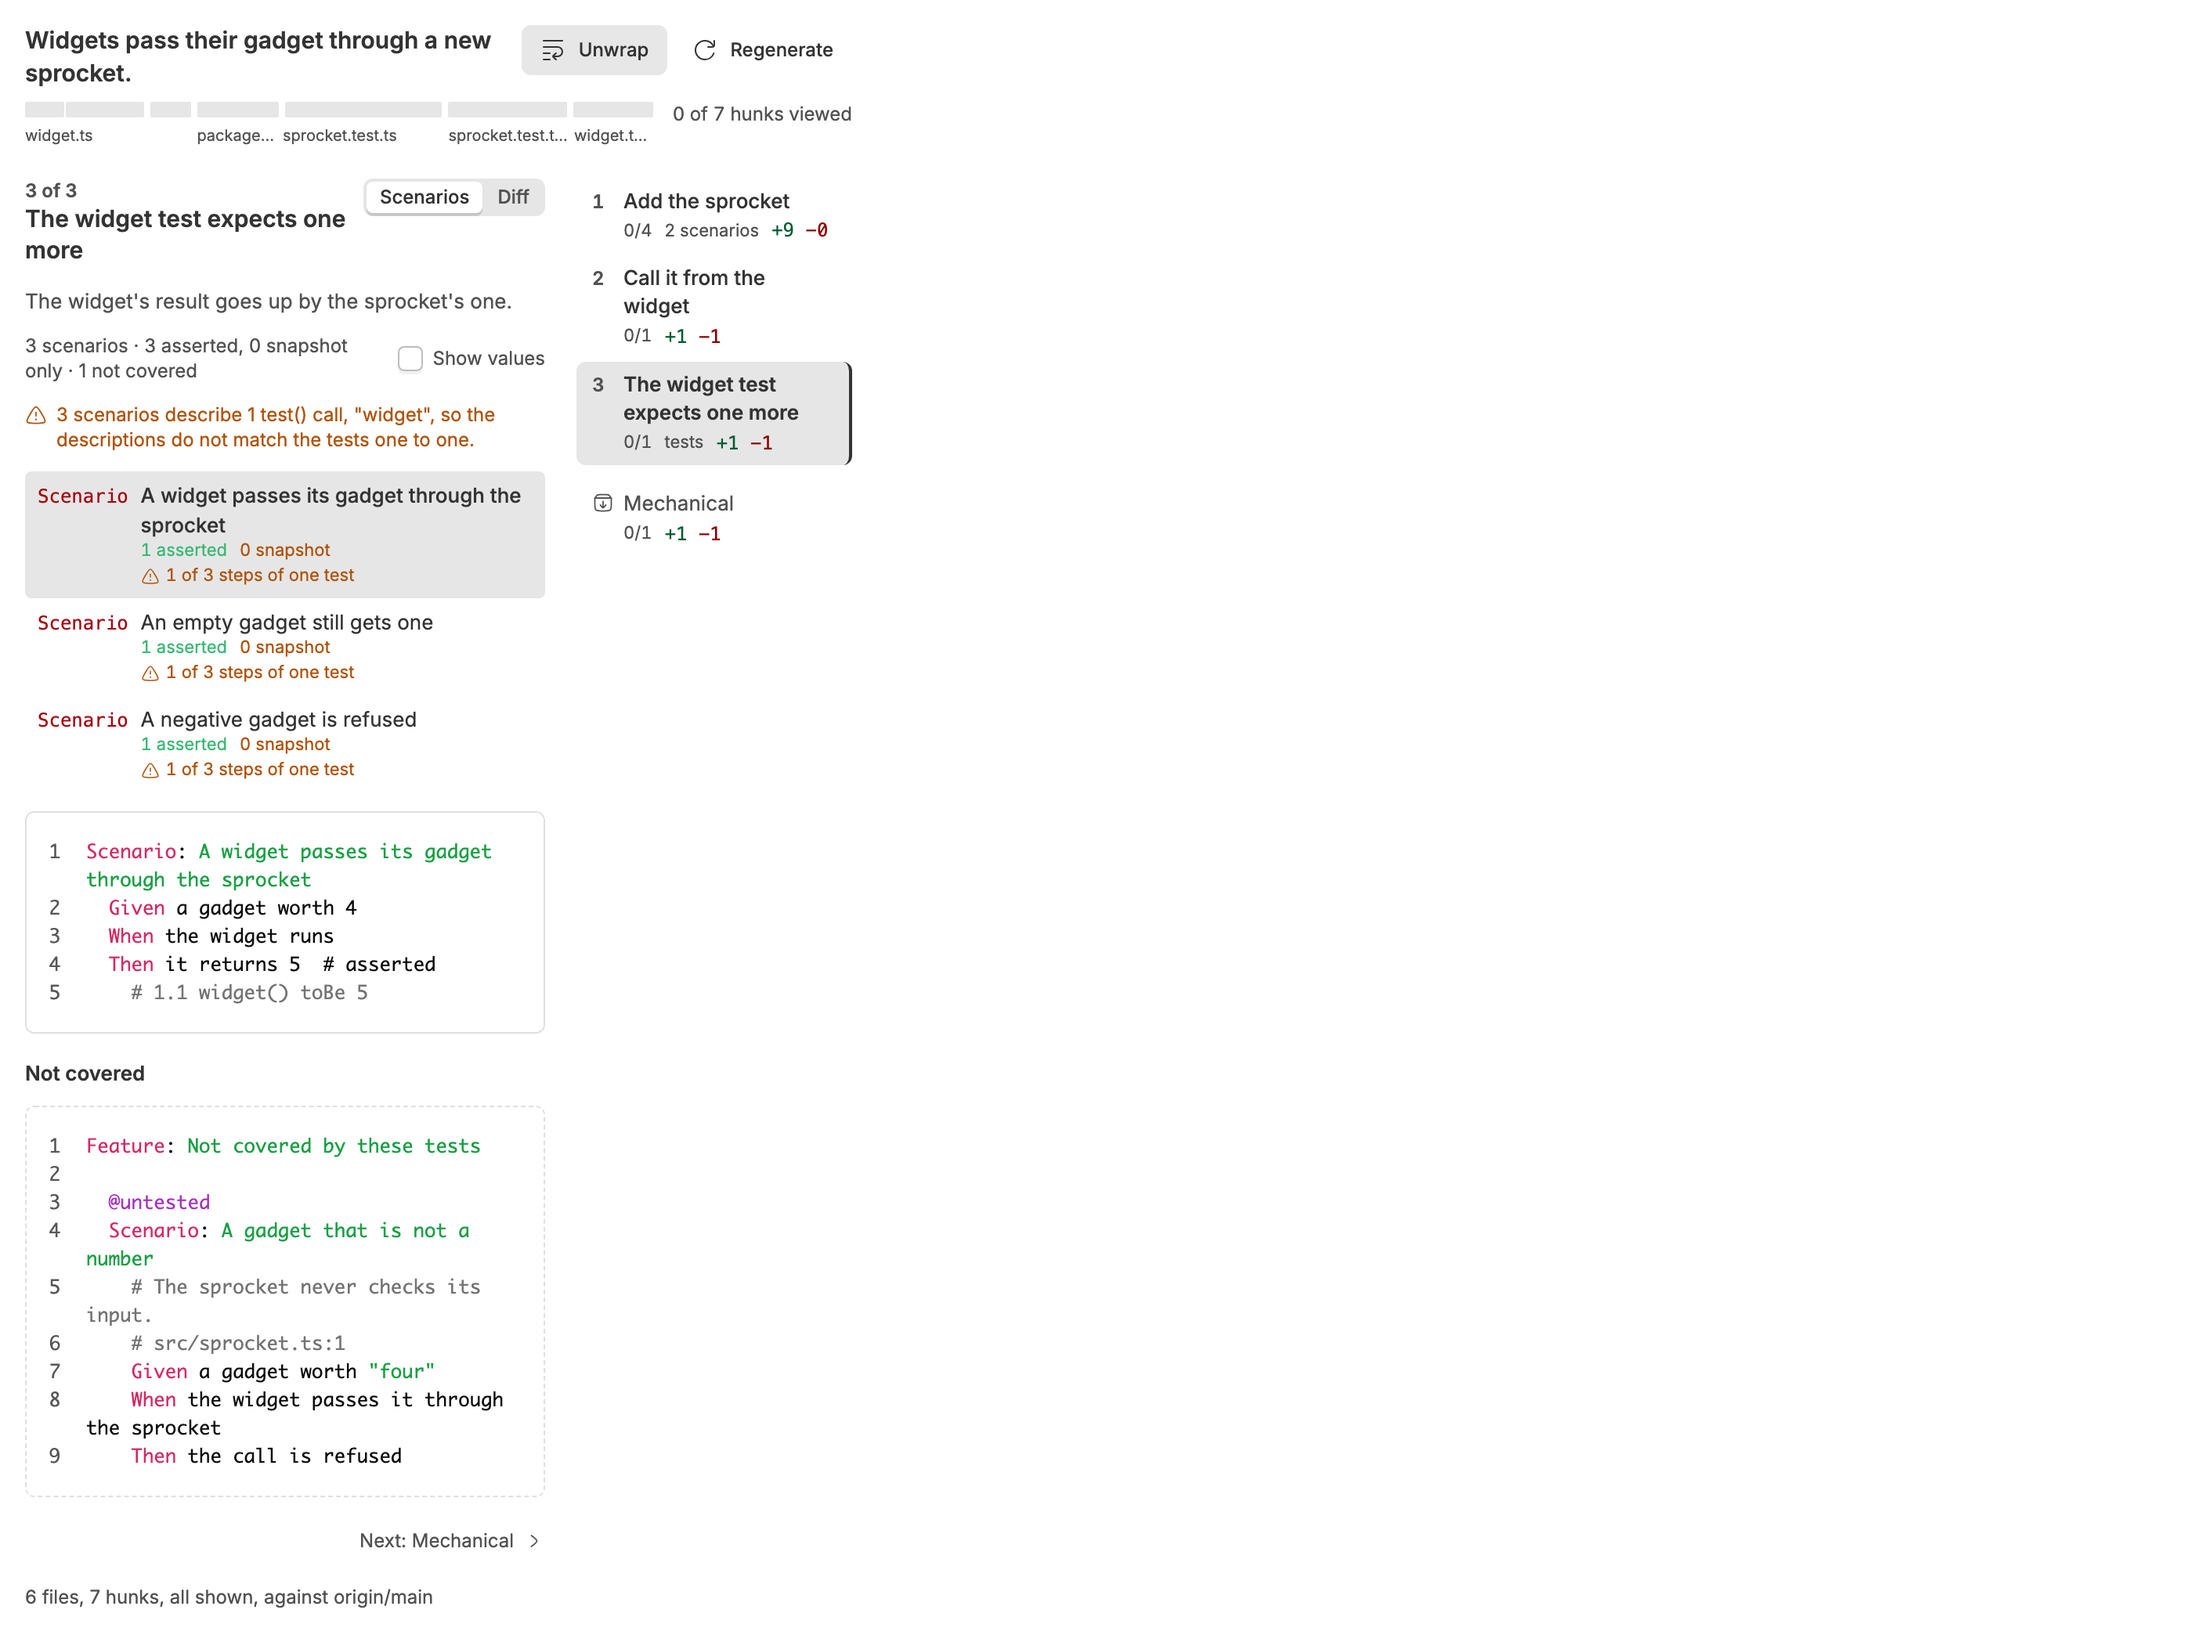
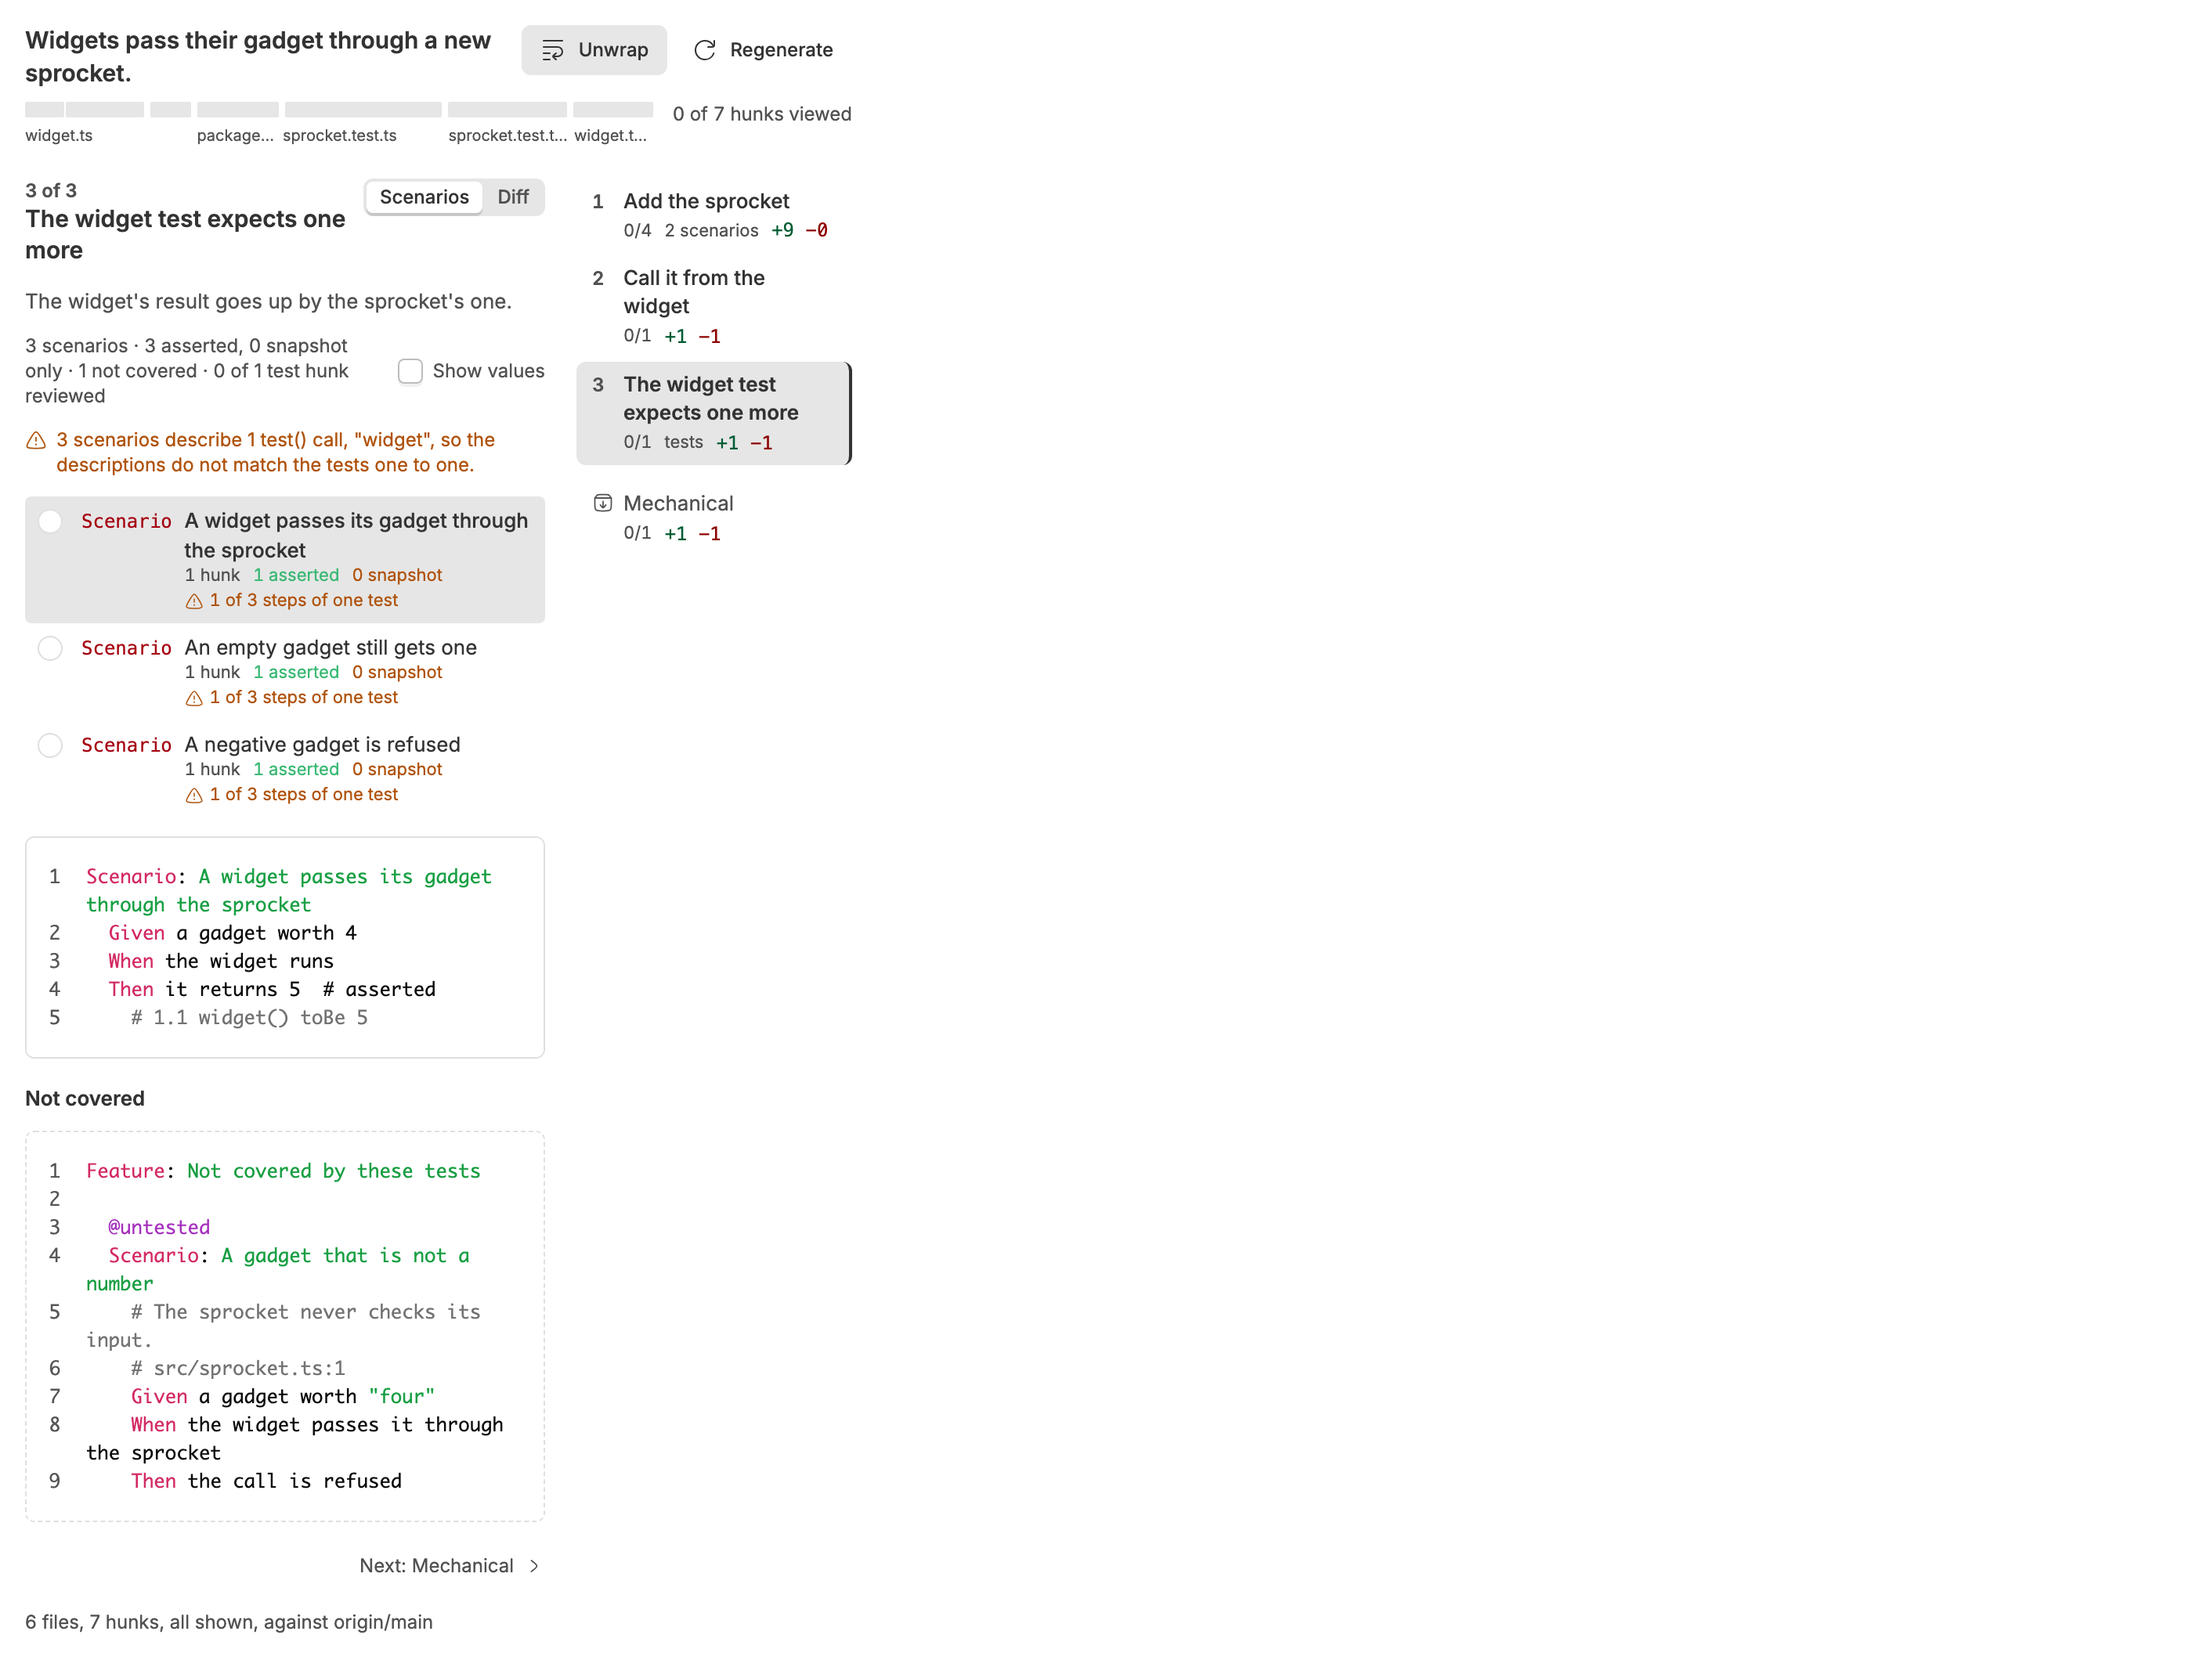
969c793 Count one test hunk in the singular
danielbachhuber/bb-plugins@969c79397e391515fa46738d712d6d32b3d90382

diff --git a/super-diff/README.md b/super-diff/README.md
@@ -56,6 +56,12 @@ A concern that is only tests: its scenarios listed, the chosen one as Gherkin wi
 
 ![Test concern](review-panel--test-concern.png)
 
+### Scenario reviewed
+
+Each scenario has a checkmark for the test hunks behind it, and says how far through them you are. Only the snapshot is read here: the first scenario, which also covers the new test, is 1 of 2 hunks reviewed, and the second, whose test is unchanged, is reviewed.
+
+![Scenario reviewed](review-panel--scenario-reviewed.png)
+
 ### Some viewed
 
 Some files marked viewed: they fold and dim, and the bar and the rail count them.
